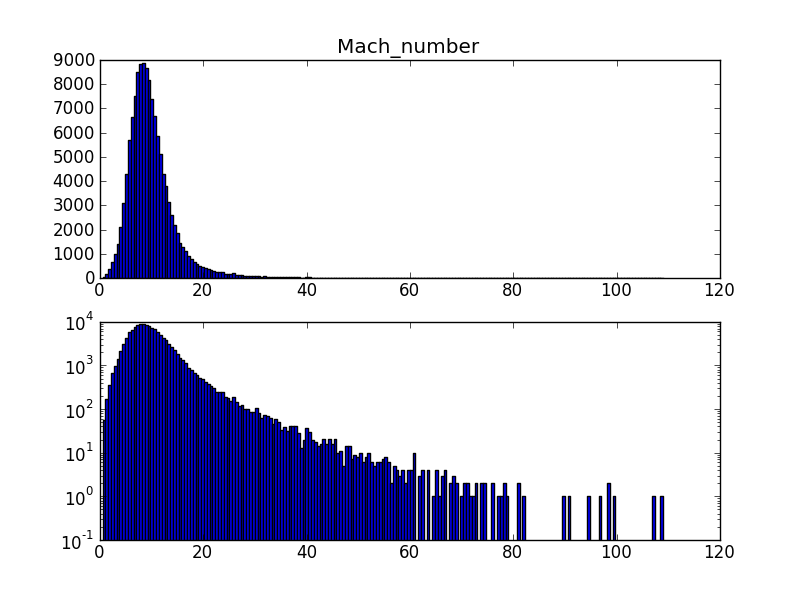
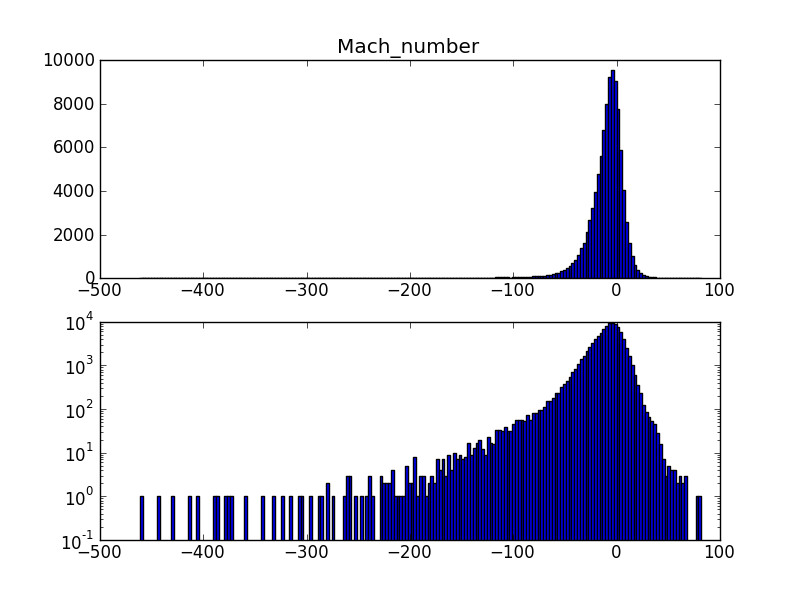
Histogramms using omni_ts05 data

diff --git a/hist/plot.py b/hist/plot.py
@@ -14,7 +14,7 @@ from numpy.random import uniform, seed
 from matplotlib.mlab import griddata
 
 print 'Starting...'
-data = np.genfromtxt("../data/omni_1h.dat")
+data = np.genfromtxt("../data2/omni_1h.dat")
 
 print 'Loaded.'
 
